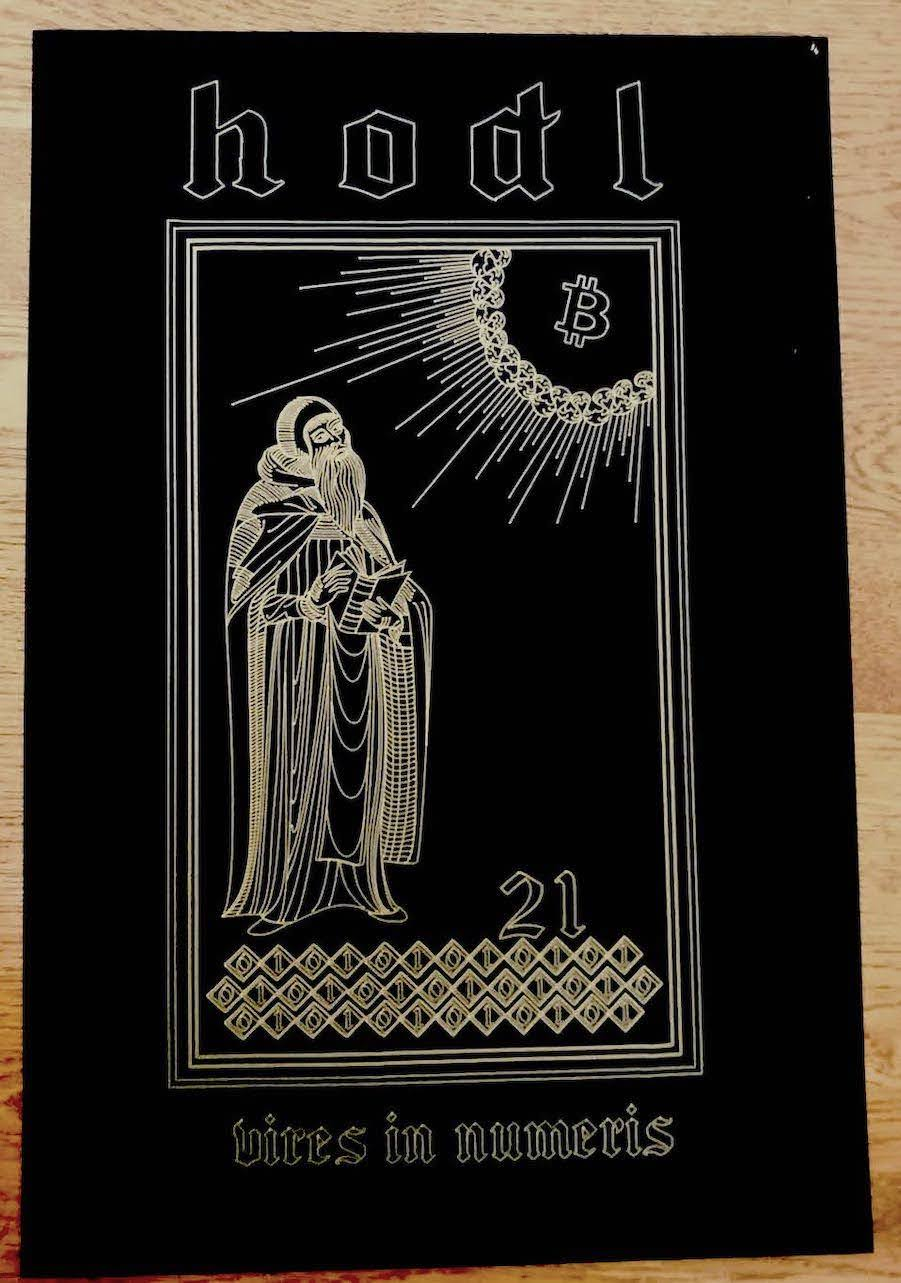
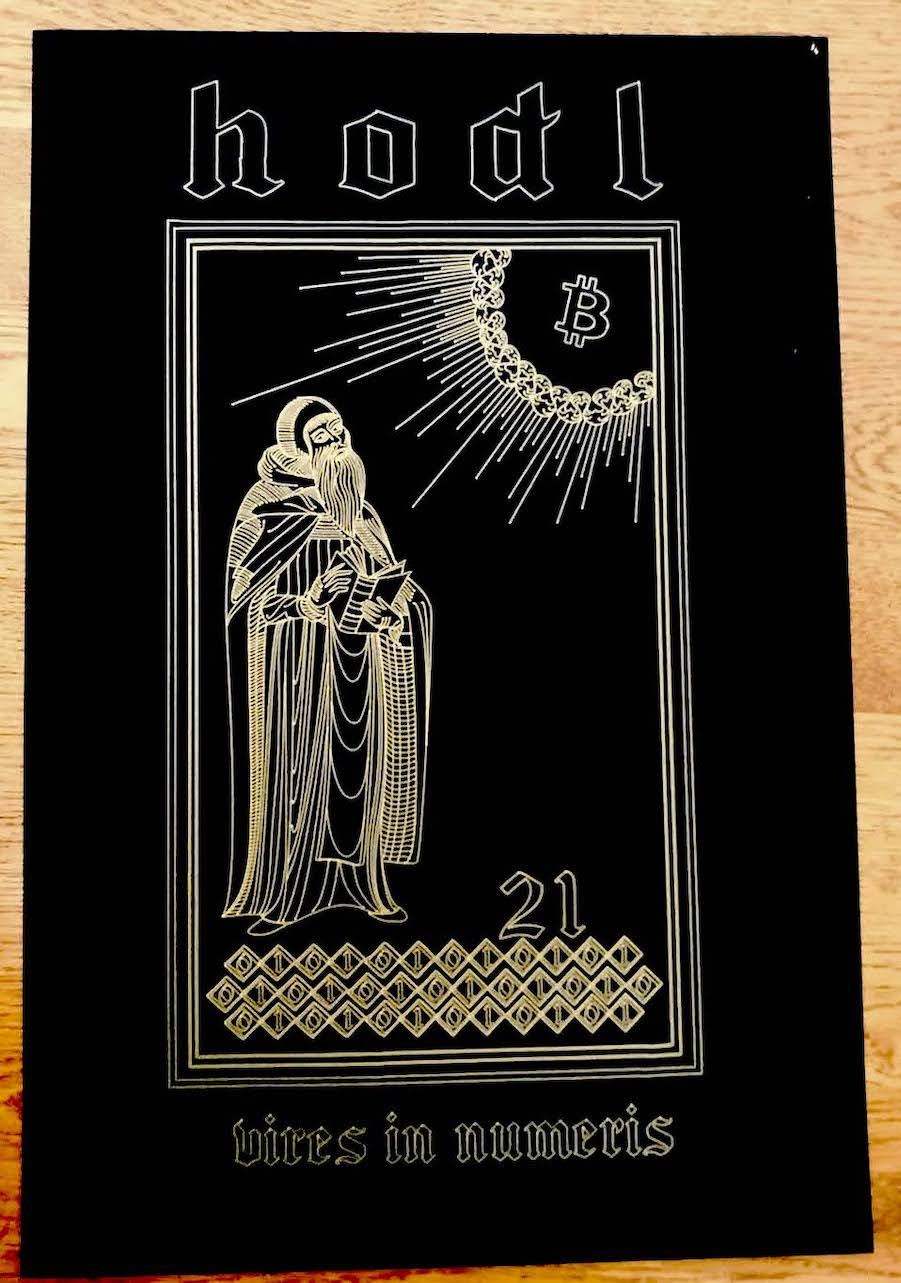
NFT update

diff --git a/old/OLD-BC.html b/old/OLD-BC.html
@@ -66,7 +66,7 @@
 </head>
 
 
-<body class="loading ajax-loading" data-site-url="http://localhost:4000" data-page-url="/project/bc">
+<body class="loading ajax-loading" data-site-url="http://localhost:4000" data-page-url="/old/OLD-BC.html">
 
 
 	<header class="header">
@@ -133,35 +133,33 @@
 
 <section class="single">
 
-	<p><img src="/images/art/BC/BC-intro.png" alt="" /></p>
+	![](/images/art/BC/BC-intro.png)
 
-<h2 id="2016-17-blockchain-discovery">2016-17 BLOCKCHAIN DISCOVERY</h2>
+## 2016-17 BLOCKCHAIN DISCOVERY
 
-<p>Once I discovered the usage and importance of the <a href="https://en.wikipedia.org/wiki/Blockchain">Blockchain</a>  Technologyeverything changed to me. Because grasping the general concepts it takes more time than more obvious ones like the Internet Of Things - <a href="https://en.wikipedia.org/wiki/Internet_of_things">IOT</a> or Artifical Intelligence - <a href="https://en.wikipedia.org/wiki/Artificial_intelligence">AI</a>, once is grasped you cannot stop thinking in how disruptive and game changing will be in the upcoming years.</p>
+Once I discovered the usage and importance of the [Blockchain](https://en.wikipedia.org/wiki/Blockchain)  Technologyeverything changed to me. Because grasping the general concepts it takes more time than more obvious ones like the Internet Of Things - [IOT](https://en.wikipedia.org/wiki/Internet_of_things) or Artifical Intelligence - [AI](https://en.wikipedia.org/wiki/Artificial_intelligence), once is grasped you cannot stop thinking in how disruptive and game changing will be in the upcoming years. 
 
-<p>This excitement inspired me to create a first batch of images trying to capture the main underlying concepts of the Blockchain:</p>
-<ul>
-  <li>DECENTRALISATION</li>
-  <li>TRANSPARENCY</li>
-  <li>IMMUTABILITY</li>
-  <li>SECURED BY CHRYPTOGRAPHY</li>
-</ul>
+This excitement inspired me to create a first batch of images trying to capture the main underlying concepts of the Blockchain:
+* DECENTRALISATION
+* TRANSPARENCY
+* IMMUTABILITY
+* SECURED BY CHRYPTOGRAPHY
 
-<h3 id="blockchain-series">Blockchain series</h3>
+### Blockchain series
 
 <div class="gallery" data-columns="3">
-	<img src="/images/art/BC/BC-00.png" />
-	<img src="/images/art/BC/BC-01.png" />
-	<img src="/images/art/BC/BC-02.png" />
-	<img src="/images/art/BC/BC-03.png" />
-	<img src="/images/art/BC/BC-04.png" />
-	<img src="/images/art/BC/BC-05.png" />
-	<img src="/images/art/BC/BC-06.png" />
-	<img src="/images/art/BC/BC-07.png" />
-	<img src="/images/art/BC/BC-08.png" />
+	<img src="/images/art/BC/BC-00.png">
+	<img src="/images/art/BC/BC-01.png">
+	<img src="/images/art/BC/BC-02.png">
+	<img src="/images/art/BC/BC-03.png">
+	<img src="/images/art/BC/BC-04.png">
+	<img src="/images/art/BC/BC-05.png">
+	<img src="/images/art/BC/BC-06.png">
+	<img src="/images/art/BC/BC-07.png">
+	<img src="/images/art/BC/BC-08.png">
 </div>
 
-<p>In fact Blockchain Technology will be the Backbone or underlying infraestructure of the Internet 3.0 and IOT and AI will run on top of it.</p>
+In fact Blockchain Technology will be the Backbone or underlying infraestructure of the Internet 3.0 and IOT and AI will run on top of it.
 
 
 </section>

diff --git a/index.html b/index.html
@@ -142,13 +142,13 @@
 			<a class="portfolio-item__link" href="/project/hodl21-nft">
 
 				<div class="portfolio-item__image">
-					<img src="/images/art/HODL/main.jpg" alt="NFT - Bitoin Art on the blockchain">
+					<img src="/images/art/HODL/main.jpg" alt="NFT - Bitcoin Art on the blockchain">
 				</div>
 
 				<div class="portfolio-item__content">
 					<div class="portfolio-item__info">
-						<h2 class="portfolio-item__title">NFT - Bitoin Art on the blockchain</h2>
-						<p class="portfolio-item__subtitle">Non Fungible Token</p>
+						<h2 class="portfolio-item__title">NFT - Bitcoin Art on the blockchain</h2>
+						<p class="portfolio-item__subtitle">Non Fungible Token on Rarible</p>
 					</div>
 				</div>
 
@@ -169,27 +169,6 @@
 				<div class="portfolio-item__content">
 					<div class="portfolio-item__info">
 						<h2 class="portfolio-item__title">304-Experiences Out of the Body</h2>
-						<p class="portfolio-item__subtitle">EXHIBITION</p>
-					</div>
-				</div>
-
-			</a>
-
-		</div>
-
-		
-
-		<div class="portfolio-item">
-
-			<a class="portfolio-item__link" href="/project/poster">
-
-				<div class="portfolio-item__image">
-					<img src="/images/art/POSTERS/Poster-1.jpg" alt="LLULL | 2016 EXHIBITION POSTERS">
-				</div>
-
-				<div class="portfolio-item__content">
-					<div class="portfolio-item__info">
-						<h2 class="portfolio-item__title">LLULL | 2016 EXHIBITION POSTERS</h2>
 						<p class="portfolio-item__subtitle">EXHIBITION</p>
 					</div>
 				</div>
@@ -223,15 +202,15 @@
 
 		<div class="portfolio-item">
 
-			<a class="portfolio-item__link" href="/project/4el">
+			<a class="portfolio-item__link" href="/project/poster">
 
 				<div class="portfolio-item__image">
-					<img src="/images/art/4EL/4EL_0.png" alt="4 ELEMENTS | Fire Air Water Earth">
+					<img src="/images/art/POSTERS/Poster-1.jpg" alt="LLULL | 2016 EXHIBITION POSTERS">
 				</div>
 
 				<div class="portfolio-item__content">
 					<div class="portfolio-item__info">
-						<h2 class="portfolio-item__title">4 ELEMENTS | Fire Air Water Earth</h2>
+						<h2 class="portfolio-item__title">LLULL | 2016 EXHIBITION POSTERS</h2>
 						<p class="portfolio-item__subtitle">EXHIBITION</p>
 					</div>
 				</div>
@@ -244,16 +223,16 @@
 
 		<div class="portfolio-item">
 
-			<a class="portfolio-item__link" href="/project/bc">
+			<a class="portfolio-item__link" href="/project/4el">
 
 				<div class="portfolio-item__image">
-					<img src="/images/art/BC/BC-intro.png" alt="BLOCK CHAIN | Web 3.0">
+					<img src="/images/art/4EL/4EL_0.png" alt="4 ELEMENTS | Fire Air Water Earth">
 				</div>
 
 				<div class="portfolio-item__content">
 					<div class="portfolio-item__info">
-						<h2 class="portfolio-item__title">BLOCK CHAIN | Web 3.0</h2>
-						<p class="portfolio-item__subtitle">CONCEPT ART</p>
+						<h2 class="portfolio-item__title">4 ELEMENTS | Fire Air Water Earth</h2>
+						<p class="portfolio-item__subtitle">EXHIBITION</p>
 					</div>
 				</div>
 

diff --git a/project/hodl21-nft.html b/project/hodl21-nft.html
@@ -20,17 +20,17 @@
 
 	<!-- Page Info -->
 	<link rel="shortcut icon" href="/images/favicon.jpg">
-	<title>NFT - Bitoin Art on the blockchain – BERNAT FERRAGUT</title>
+	<title>NFT - Bitcoin Art on the blockchain – BERNAT FERRAGUT</title>
 	<meta name="description" content="Creating an NFT on the ethereum network">
 
 	<!-- Twitter Card -->
 	<meta name="twitter:card" content="summary_large_image">
-	<meta name="twitter:title" content="NFT - Bitoin Art on the blockchain – BERNAT FERRAGUT">
+	<meta name="twitter:title" content="NFT - Bitcoin Art on the blockchain – BERNAT FERRAGUT">
 	<meta name="twitter:description" content="Creating an NFT on the ethereum network">
 	<meta name="twitter:image:src" content="http://localhost:4000/images/art/HODL/main.jpg">
 
 	<!-- Facebook OpenGraph -->
-	<meta property="og:title" content="NFT - Bitoin Art on the blockchain – BERNAT FERRAGUT" />
+	<meta property="og:title" content="NFT - Bitcoin Art on the blockchain – BERNAT FERRAGUT" />
 	<meta property="og:description" content="Creating an NFT on the ethereum network" />
 	<meta property="og:image" content="http://localhost:4000/images/art/HODL/main.jpg" />
 
@@ -118,14 +118,14 @@
 	
 	<div class="page">
 
-		<div class="page__content" data-page-title="NFT - Bitoin Art on the blockchain – BERNAT FERRAGUT">
+		<div class="page__content" data-page-title="NFT - Bitcoin Art on the blockchain – BERNAT FERRAGUT">
 
 			<section class="intro">
 
 	<div class="wrap">
 
-		<h1>NFT - Bitoin Art on the blockchain</h1>
-		<p>Non Fungible Token</p>
+		<h1>NFT - Bitcoin Art on the blockchain</h1>
+		<p>Non Fungible Token on Rarible</p>
 
 	</div>
 
@@ -174,7 +174,7 @@
 
 <p>Any crypto fan will be delighted for having one of these ‘one of a kind’ pieces of Art inspired by the greatest of our modern Saints: Satoshi.</p>
 
-<h3 id="creating-the-nft-on-rarible">Creating the NFT on RARIBLE</h3>
+<h3 id="creating-the-nft-on-rarible--super-rare">Creating the NFT on RARIBLE | SUPER RARE</h3>
 
 <div class="gallery" data-columns="3">
 	<img src="/images/art/HODL/1-in.jpg" />
